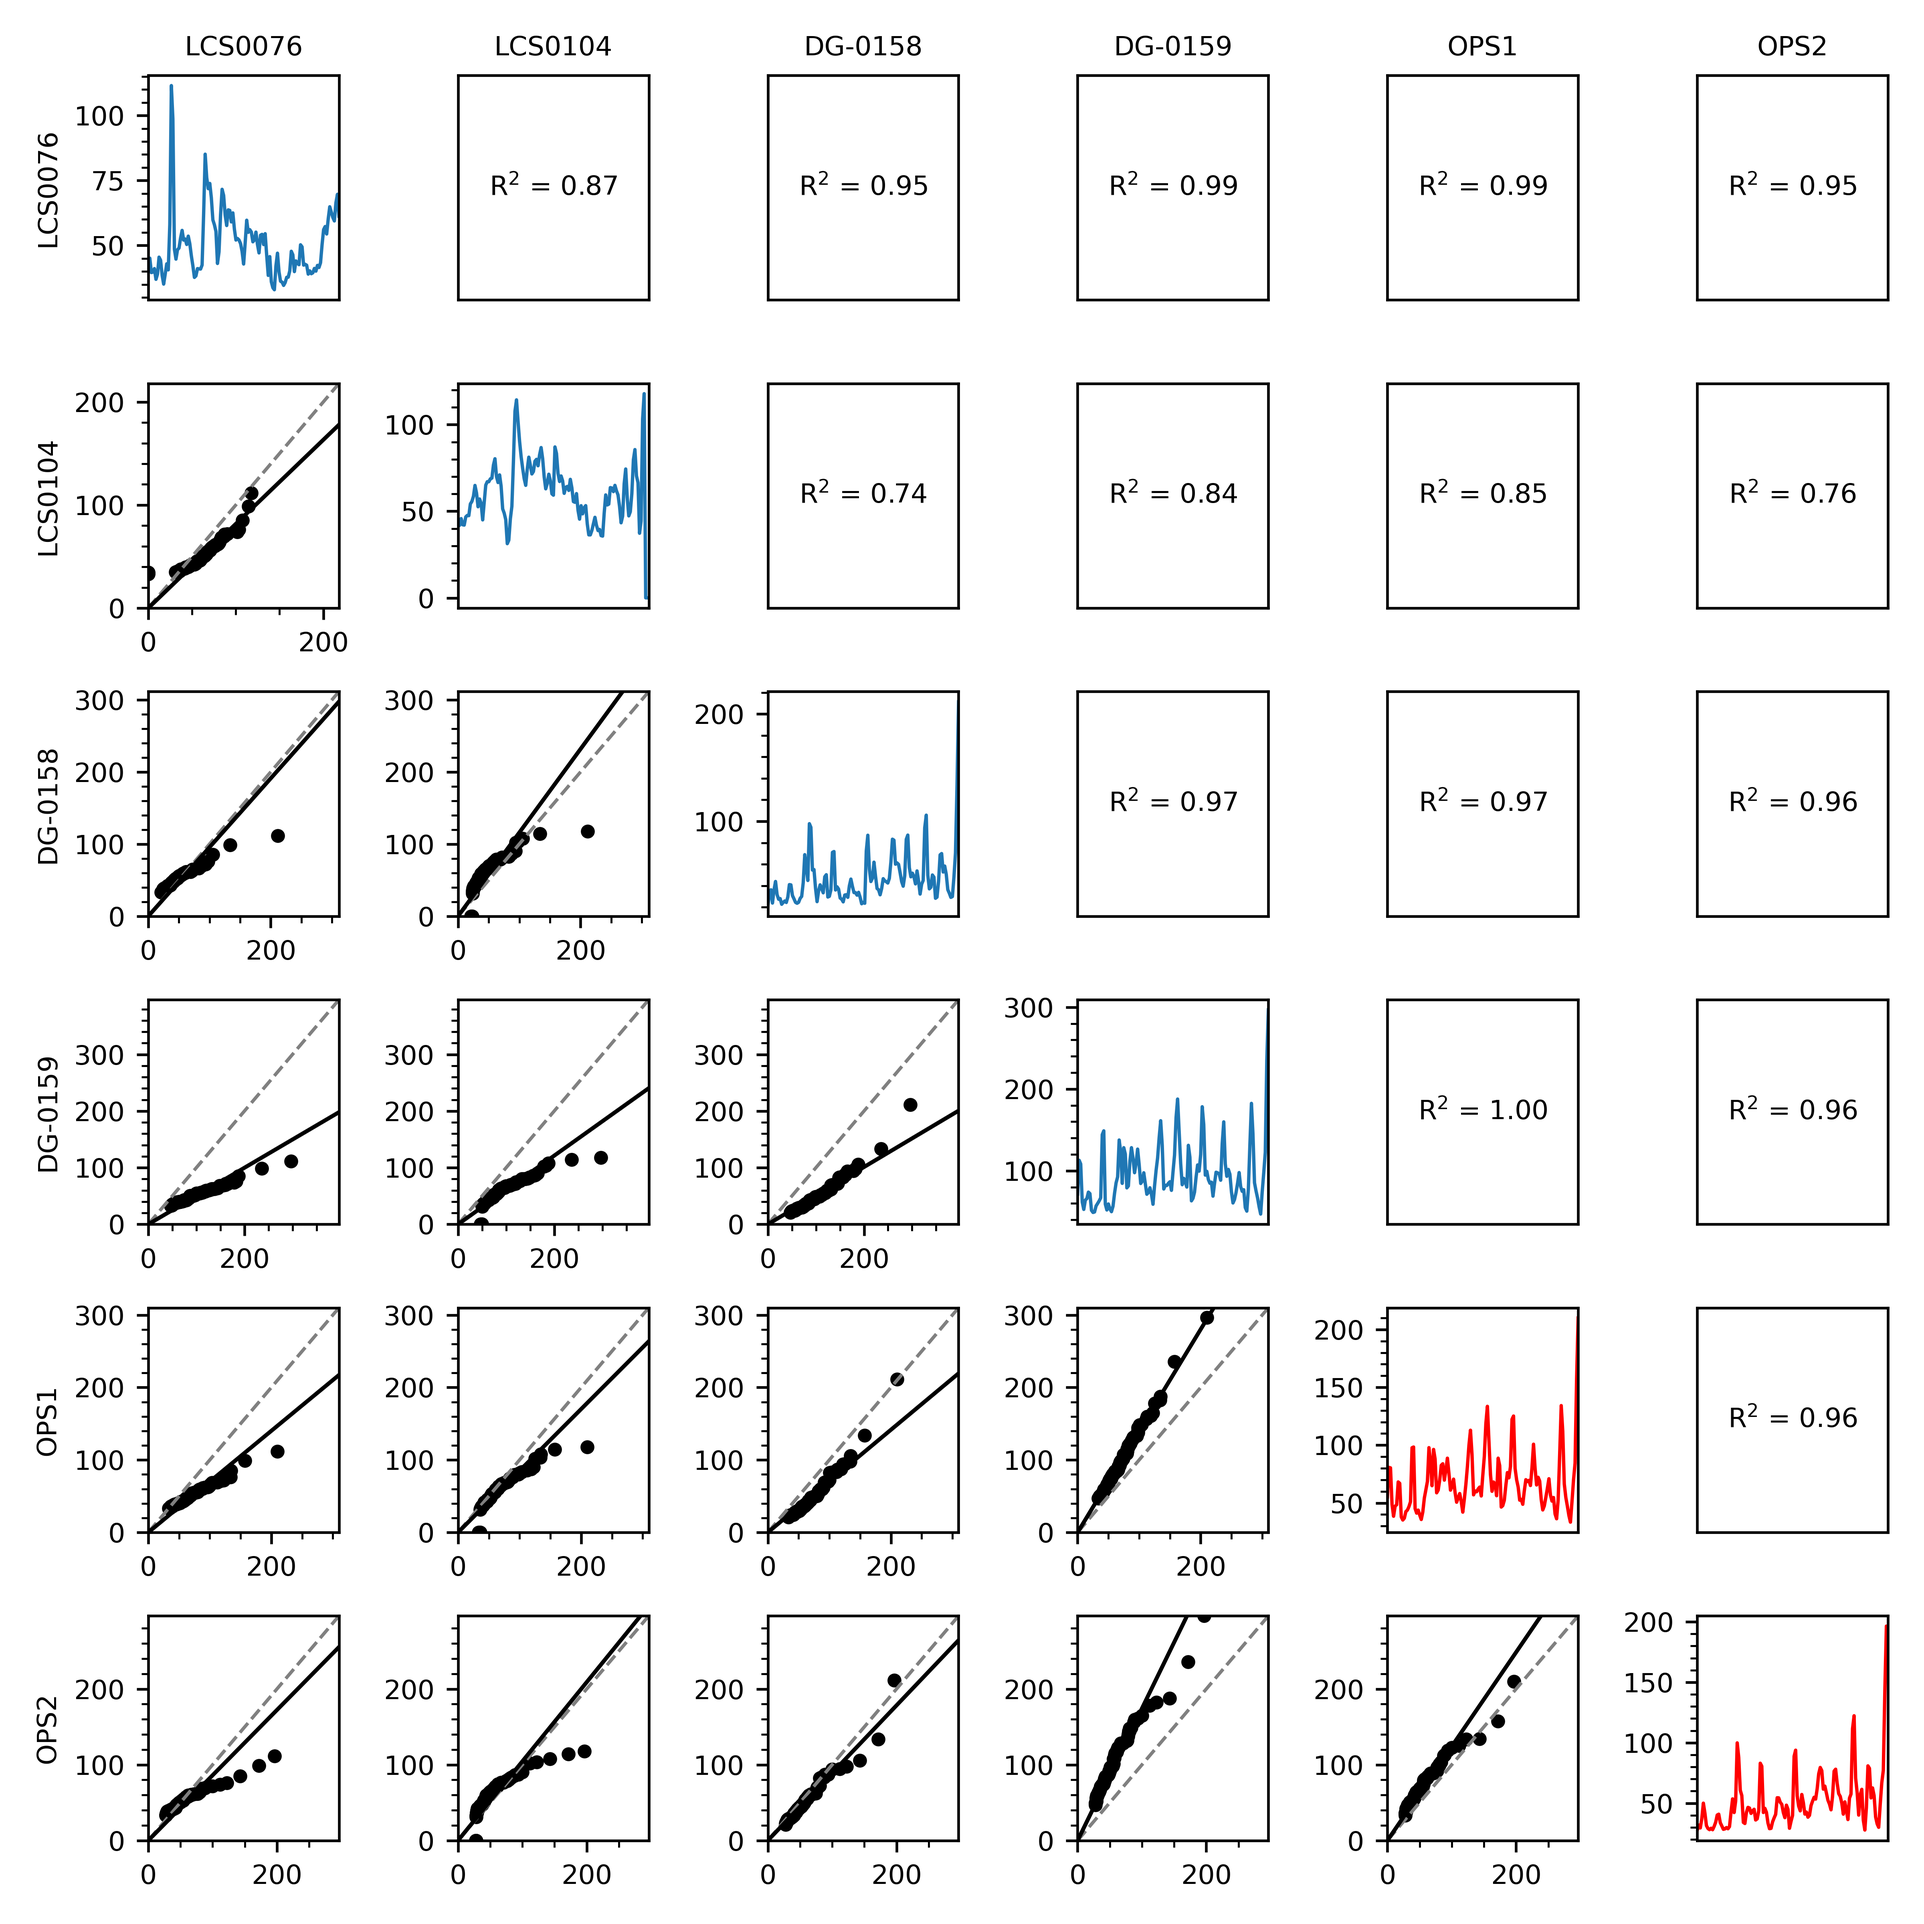
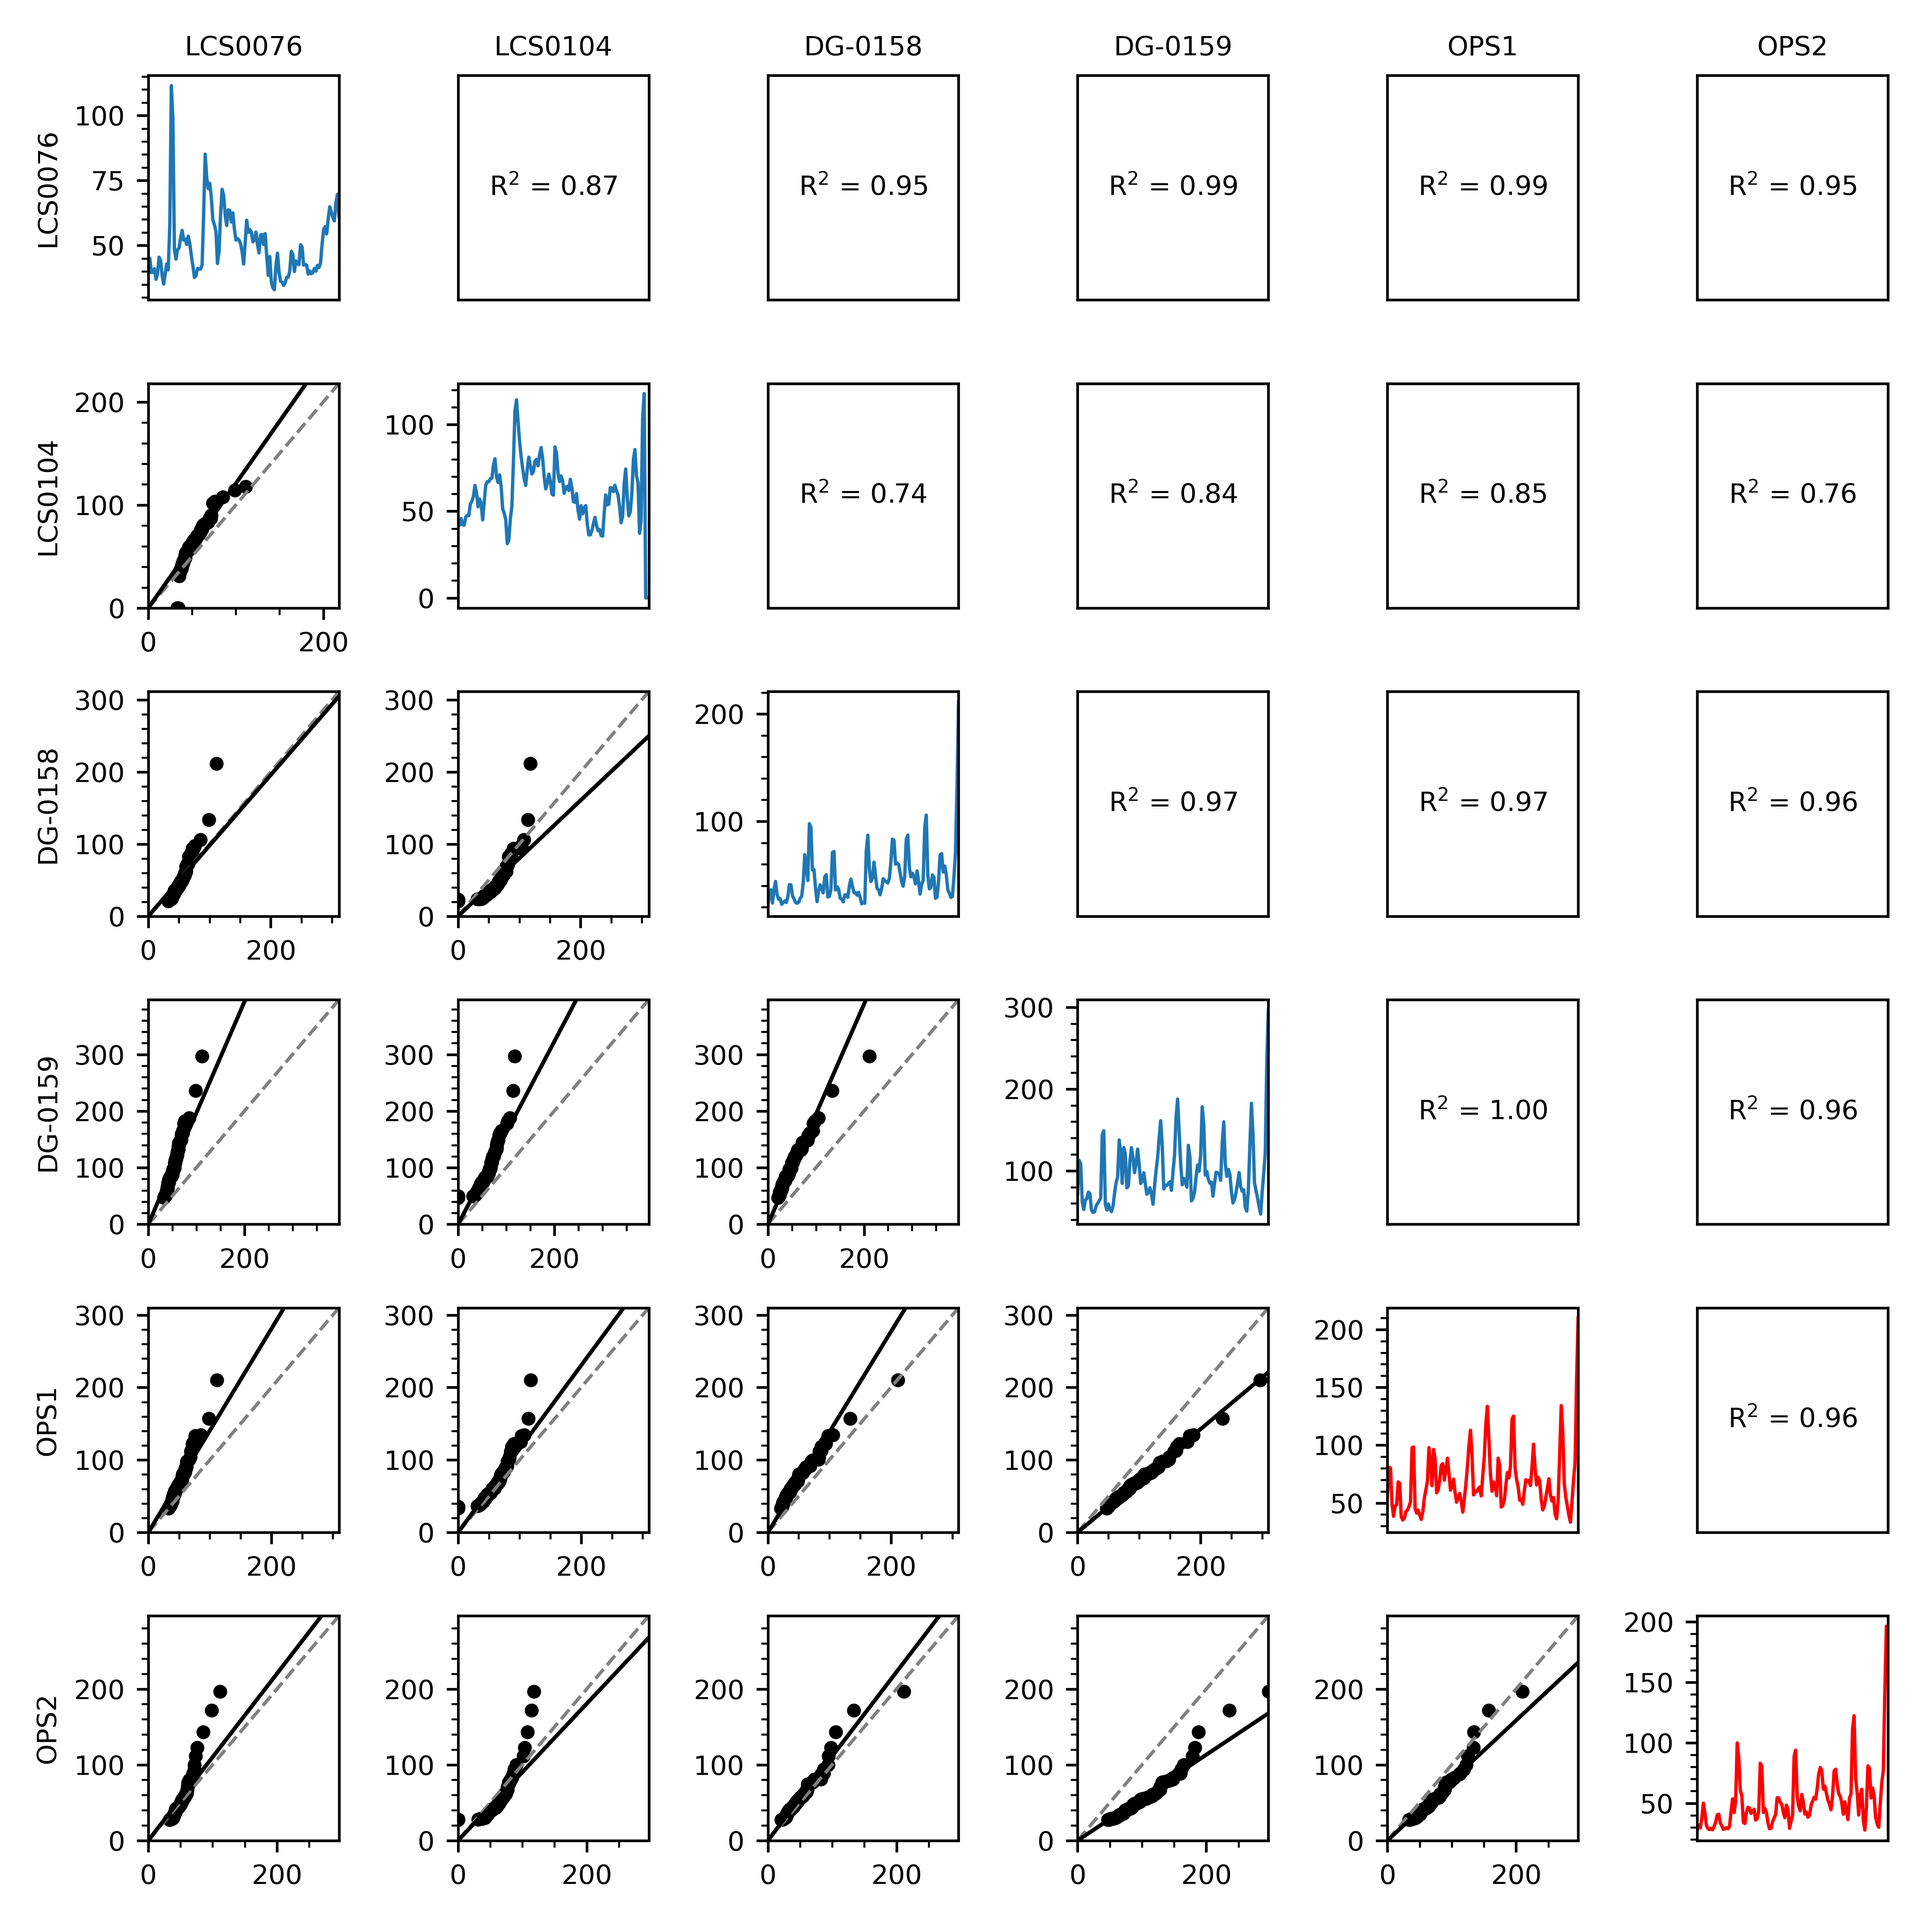
Update

diff --git a/plot_functions.py b/plot_functions.py
@@ -713,7 +713,7 @@ def LCS_calibration_plot(plotz, figsize, df, forced_zero):
 
                     x_plot = np.linspace(0, max(df[Conc_keys[i-1]]) + 100)
                     
-                    a, b, squares, ndof, R2 = plot_reference(ax[i-1][j], x_plot, df, [Conc_keys[i-1], Conc_keys[j]], None, forced_zero)
+                    a, b, squares, ndof, R2 = plot_reference(ax[i-1][j], x_plot, df, [Conc_keys[j], Conc_keys[i-1]], None, forced_zero)
                     ax[i-1][j].set(xlim = (x_plot[0], x_plot[-1]), ylim = (x_plot[0], x_plot[-1]))
                     if 'OPS' in Conc_keys[i-1]:
                         a_list.append(a)

diff --git a/calculations.py b/calculations.py
@@ -25,7 +25,7 @@ def get_corrected_LCS(path, uncorrected_LCS, device_id, correction):
             new_df = pd.DataFrame({'Time': df[df.keys()[0]]})
 
             for conc in df.keys()[1:]:
-                new_df[conc] = np.array(df[conc])/correction
+                new_df[conc] = np.array(df[conc])*correction
 
             new_df.to_csv(path + key + '.csv')
 
